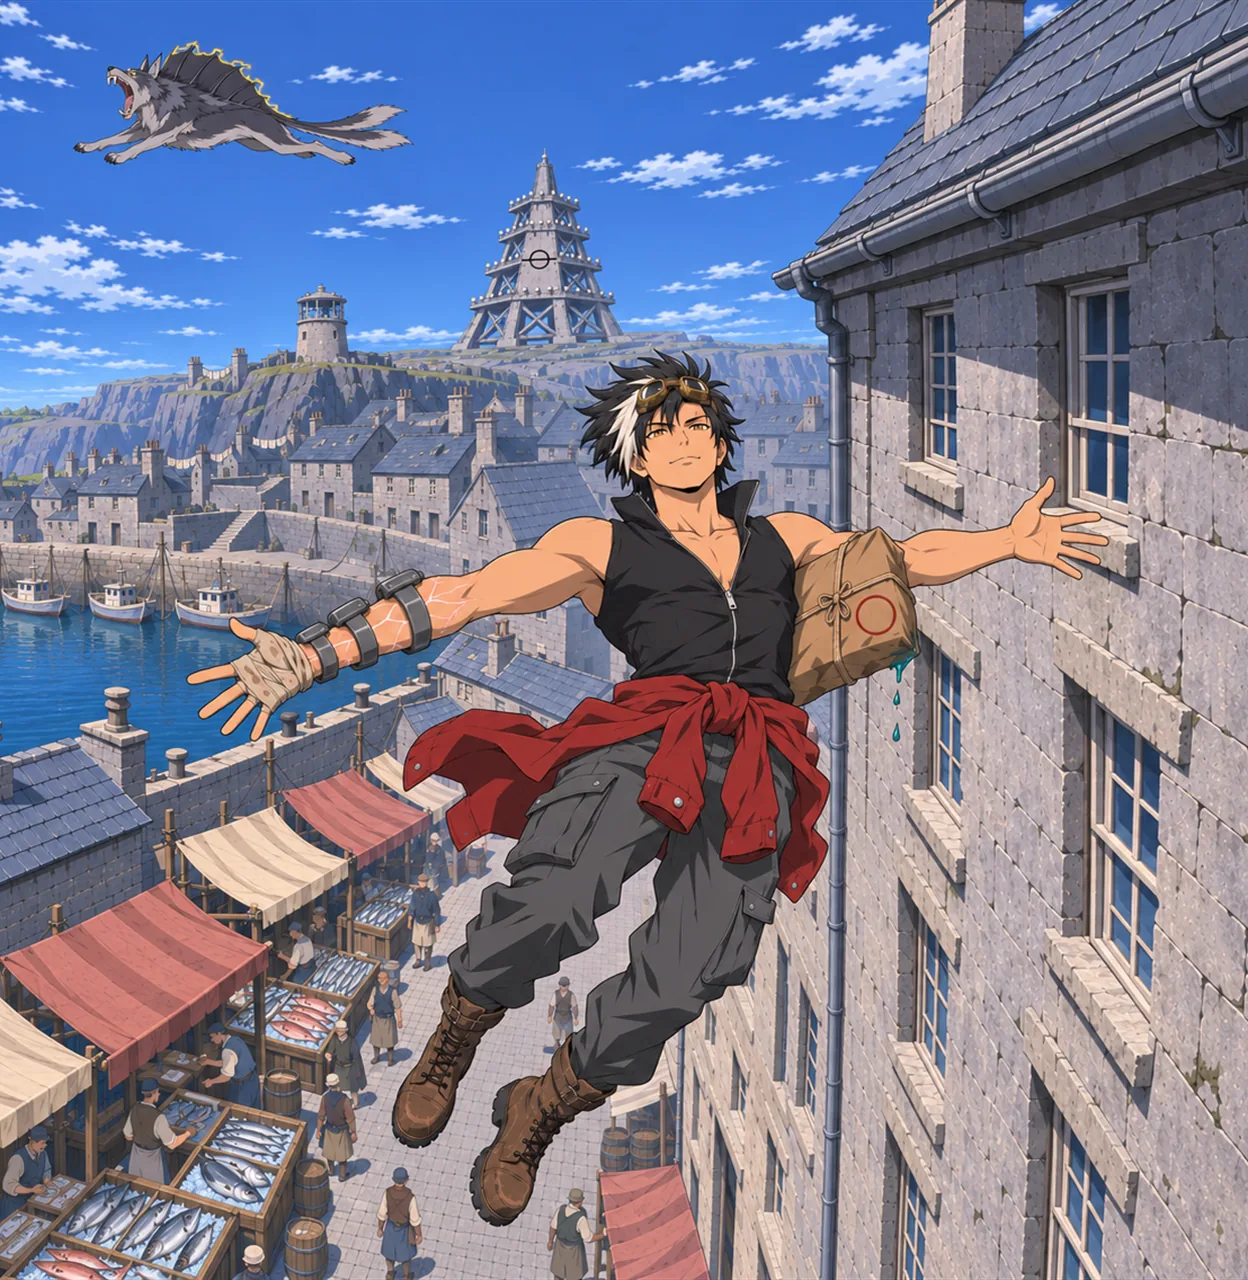
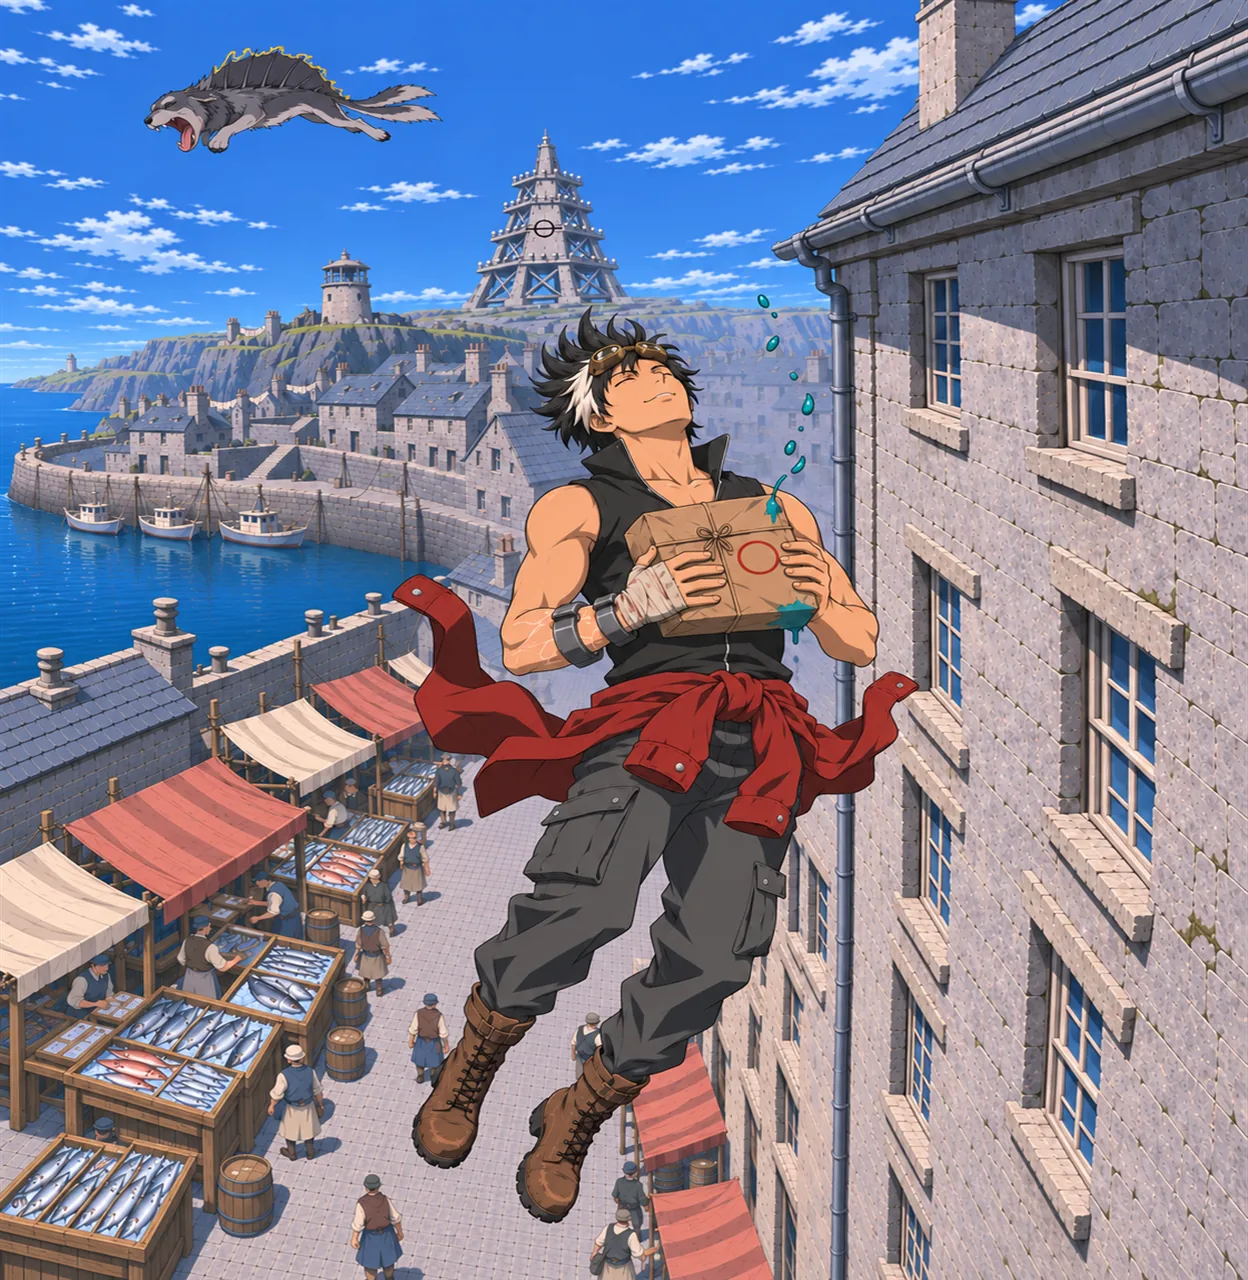
Issue 1 p2-5: redraw the jump as a trust fall from Dylan's sketch
Take 3 fresh pose (upright, tipped back, feet under him, parcel in both hands,
Skarn far off with a sleepy yawn), take 4 widened to the panel shape. Reader
now shows take 4; the old reader file kept as i01-p02-5-v2.webp.

diff --git a/docs/DECISIONS.md b/docs/DECISIONS.md
@@ -1297,3 +1297,17 @@ Branch `art/ref-sheets-villains`, folder `Documents\driftbound-villains`.
 - Panel p2-2 take 3 (`manga/art/i01-p02-2-v3.png`; image 29 of today; edit of take 2, second try after one timeout) passed Claude's review: 1248x1280 (1); the notebook is open in his LEFT hand with the pages up and toward him, we see its brown cover and page edges, the pencil in his RIGHT hand rests on the page (D15, your change); everything else matches take 2 by eye (17); no text (20).
 - Images used today: 29 (13 overnight + 16 this run). One timeout this run (not counted).
 - p2-2 take 3: "Passes (Recommended)" → locked `i01-p02-2-v3`, saved as `manga/art/i01-p02-2.webp` with its manifest line. Learned: no further checklist change (D15 already added).
+
+## Your words (2026-11-12, the jump panel again)
+- Dylan (with a rough sketch): "page 2 panel 5 still looks off why is he falling like that is it part of the story?" Claude: yes; the script has Kaito trust-jump while Skarn yawns, and page 3 is Skarn catching him by the jacket sleeves.
+- Pose: "well i didnt know it was supposed to be a trust fall thats the while reason why i was re making them. show the first one again so i can see if thats a better fit. it should be a trust fall but something that he still would be able to land on his feet from if we remake it and make sure he is holding the package and just doesnt have it uner his arm". Take 1 shown beside take 2 (same pose; take 2 was an edit of take 1).
+- Skarn: "far off scripted but the yawn looks like a howl when hes jumping".
+- When: "Now". Remake: "Yes, make it now (Recommended)": upright, tipped slightly back, feet under him with loose knees, parcel in BOTH hands at his chest, Skarn far off with a sleepy yawn (eyes shut, head drooping). Claude's call: "arms spread" from the card dropped, since both hands hold the parcel.
+- The feet-first prompt (never run) kept as `manga/art/prompts/i01-p02-5-v3-feetfirst-unused.txt`; new prompt `i01-p02-5-v3.txt`, a fresh take with take 2 as the scene guide only.
+- p2-5 take 3 (trust fall): timed out (1200 s, exit 124, no file); not counted. Retried once with the same prompt (fix 26).
+- Panel p2-5 take 3 (`manga/art/i01-p02-5-v3.png`; image 30 of today; fresh take with take 2 as scene guide, second try after one timeout): FAIL 1: 1122x1402, tall (the same wrong shape as every first try at 1248x1280). Otherwise passes Claude's review: calm trust fall, body upright and tipped slightly back, eyes closed, small smile, feet below with loose knees so he could land (Dylan's "land on his feet"); parcel gripped in BOTH hands at his chest, plain ring stamp (Dylan's "holding the package"); hair, jacket ends and ink drops trail upward (D16); bracer, scars and rag on his RIGHT arm, white lock at his RIGHT temple (5, 9); Skarn far off top left, eyes shut, head drooping, tongue lolling: a sleepy yawn, not a howl (Dylan's "far off scripted"); tail one tail forking partway (5); market, harbour, pylon with the HORIZONTAL symbol (D14); no text (20).
+- p2-5 take 3: "option 1" (pose passes; widen it now) → one framing edit (`i01-p02-5-v4`, image 31 of today). Dylan also asked: "why is there liquid leaking from the package?"
+- p2-5 take 4 (widen): timed out (1200 s, exit 124, no file); not counted. Retried once (fix 26).
+- Panel p2-5 take 4 (`manga/art/i01-p02-5-v4.png`; image 31 of today; edit of take 3, second try after one timeout) passed Claude's review: 1248x1280 (1); framing widened, more harbour on the left and wall on the right (asked change); everything else matches take 3 by eye (17): trust-fall pose, parcel in both hands with the ring stamp, Skarn's sleepy yawn far off, gear on his RIGHT arm; no text (20).
+- Claude's answer to "why is there liquid leaking": the parcel is twelve bottles of permanent teal ink for Sela, one smashed in the chase; page 4 Kaito's palm comes away teal ("...Why's it wet?"), page 10 Sela opens it ("I jumped off a roof for INK?"). The drips are a planted clue.
+- p2-5 take 4: "Passes, swap it in (Recommended)" → locked `i01-p02-5-v4`; `manga/art/i01-p02-5.webp` now from take 4 (the old reader file kept as `i01-p02-5-v2.webp`). Learned: no further checklist change (D16 covers it).

diff --git a/docs/manga/IMAGE_REQUESTS.md b/docs/manga/IMAGE_REQUESTS.md
@@ -47,7 +47,7 @@ These people appear in Issues 1 to 10 and have no sheet. Use the people layout b
 ### Batch B: the first issue, all of it (about 120 panels; the proof of the pipeline)
 Issue 1 has 120 panels and 29 pages. Draw it completely, in order, cover first, from the art notes in `manga/issues/issue-01.js` with the sheets attached.
 - **Status (2026-11-12):** cover locked (`manga/art/i01-cover.webp`, in the reader). New sheets for the customs men: Dole and Pym (locked). Panel p1-3 made but fails (two tails), fix queued for the next budget. Not yet made: p1-1, p1-2 (two timeouts), p2-1 to p2-5 (p2-3 two timeouts), and pages 3-28. Panel look: each panel its own picture at its shape from `manga/layouts.js` (Dylan). This proves the style holds across a whole issue, settles the balloon lettering look, and gives Dylan one finished issue to judge before anything else is drawn. Count: 1 cover + 120 panels; with redos, budget 150.
-- **Status (2026-11-12, morning):** pages 1-2 drawn, all eight panels in the reader (`manga/art/i01-p01-1.webp` to `i01-p02-5.webp`), each passed by Dylan. Panel p2-5 has a redo queued for the next budget (Dylan: "doesn't look natural"; feet-first drop, prompt `manga/art/prompts/i01-p02-5-v3.txt`); the current take stays in the reader until it passes. Next: page 3 (the title page) onward.
+- **Status (2026-11-12, morning):** pages 1-2 drawn, all eight panels in the reader (`manga/art/i01-p01-1.webp` to `i01-p02-5.webp`), each passed by Dylan. Panel p2-5 redrawn the same day as a trust fall from Dylan's sketch (`i01-p02-5-v4`). Next: page 3 (the title page) onward.
 
 ### Batch C: covers for Issues 2 to 51 (50 images, budget 70)
 Briefs are in the generated list. A cover is the one picture most people see; do all of them before more interior pages, so the shelf looks real.
